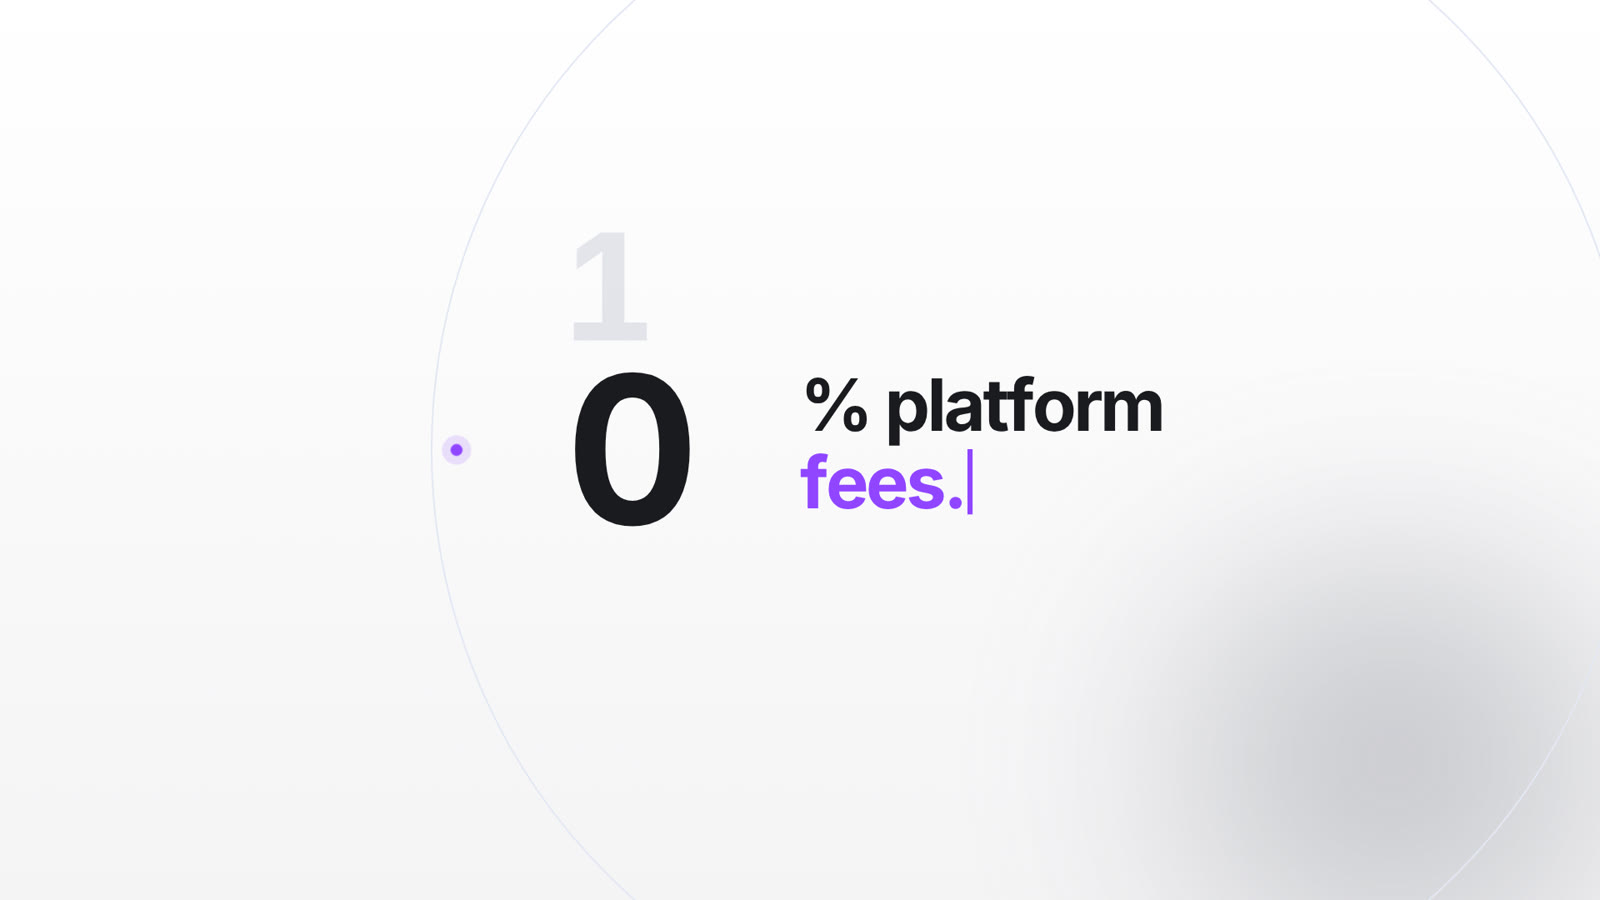
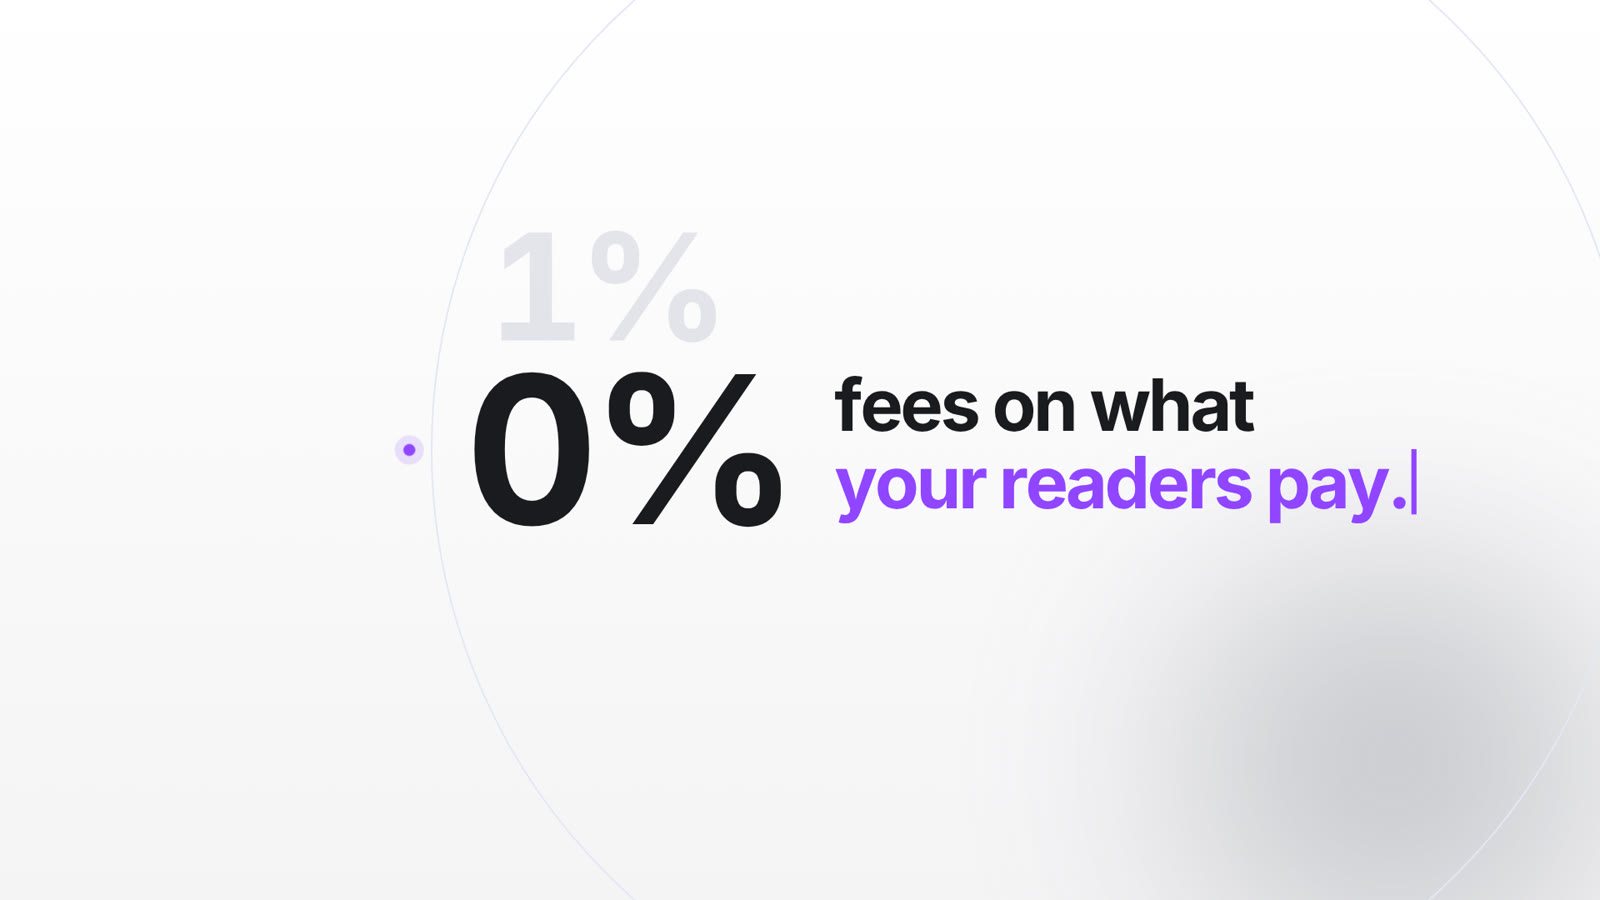
Shot 11: reel rolls 10% to 0% with 'fees on what your readers pay.' so the number explains itself
Claude-Session: https://claude.ai/code/session_01Bj9t4gh9dBD7VUE8NbaYEj

Changed region(s): [[0.25, 0.4044, 0.9062, 0.5911], [0.3125, 0.28, 0.4062, 0.3733], [0.3125, 0.28, 0.3438, 0.3111]]

diff --git a/ghost-film/review/index.html b/ghost-film/review/index.html
@@ -31,7 +31,7 @@ figcaption p { margin:0; color:var(--mute); font-size:14px; }
 </style>
 <div class="wrap">
   <header style="display:grid;gap:12px">
-    <span class="eyebrow">Ghost launch film · v5.1 · sharp corners · storyboard for approval</span>
+    <span class="eyebrow">Ghost launch film · v5.2 · sharp corners · clearer shot 11 · storyboard for approval</span>
     <h1>12 shots, 26.8 seconds, styled to ghost.org</h1>
     <p class="lede">Built on the saas-launch-video skill. It follows the skill’s arc and pacing (a cut every 1.6–3 s) and ghost.org’s branding: Inter Bold headlines with tight tracking, ink #15171A, the white-and-black ground you approved, Ghost purple for line 2, a black primary button, and the real Ghost editor and orb.</p>
   </header>
@@ -48,7 +48,7 @@ figcaption p { margin:0; color:var(--mute); font-size:14px; }
 <tr><td class="n">08</td><td class="tc">15.0s</td><td><code>morph</code></td><td><b>One place, / no duct tape.</b></td><td>The headline card morphs into a folder, then a Ghost panel (Website · Newsletter · Payments), and the hand clicks Publish & send. Fixes problem 3: tools.</td></tr>
 <tr><td class="n">09</td><td class="tc">17.8s</td><td><code>dashboard</code></td><td><b>Keep 100% of your revenue</b></td><td>A Ghost-black horizon rises with the dashboard: 2,480 paid members, platform fee 10 → 0%, open rate 64%, MRR 2.4×.</td></tr>
 <tr><td class="n">10</td><td class="tc">20.2s</td><td><code>social</code></td><td><b>Last week, / 20,425 new publications</b></td><td>The count-up runs, a marquee of publications featured on ghost.org scrolls past and “$100M+ earned on Ghost every year” appears.</td></tr>
-<tr><td class="n">11</td><td class="tc">22.1s</td><td><code>reel</code></td><td><b>0 · % platform / fees.</b></td><td>A slot reel rolls 10 → 0 and the label types on.</td></tr>
+<tr><td class="n">11</td><td class="tc">22.1s</td><td><code>reel</code></td><td><b>0% · fees on what / your readers pay.</b></td><td>A slot reel rolls 10% → 0% and “fees on what your readers pay.” types on beside it. Same animation and timing, now self-explanatory.</td></tr>
 <tr><td class="n">12</td><td class="tc">23.8s</td><td><code>cta</code></td><td><b>ghost · Turn your audience into a business.</b></td><td>The orb pops, the wordmark types, the black “Start publishing now →” button and “Try free for 14 days” rise, then ghost.org.</td></tr>
     </tbody></table></div>
   </section>
@@ -64,7 +64,7 @@ figcaption p { margin:0; color:var(--mute); font-size:14px; }
 <figure id="s08"><img src="img/s08.jpg" alt="Shot 08, morph" width="1600" height="900" loading="lazy"><figcaption><div class="cap"><b>08 · morph</b><span class="tc">15.0s</span></div><p>One place, / no duct tape.</p></figcaption></figure>
 <figure id="s09"><img src="img/s09.jpg" alt="Shot 09, dashboard" width="1600" height="900" loading="lazy"><figcaption><div class="cap"><b>09 · dashboard</b><span class="tc">17.8s</span></div><p>Keep 100% of your revenue</p></figcaption></figure>
 <figure id="s10"><img src="img/s10.jpg" alt="Shot 10, social" width="1600" height="900" loading="lazy"><figcaption><div class="cap"><b>10 · social</b><span class="tc">20.2s</span></div><p>Last week, / 20,425 new publications</p></figcaption></figure>
-<figure id="s11"><img src="img/s11.jpg" alt="Shot 11, reel" width="1600" height="900" loading="lazy"><figcaption><div class="cap"><b>11 · reel</b><span class="tc">22.1s</span></div><p>0 · % platform / fees.</p></figcaption></figure>
+<figure id="s11"><img src="img/s11.jpg" alt="Shot 11, reel" width="1600" height="900" loading="lazy"><figcaption><div class="cap"><b>11 · reel</b><span class="tc">22.1s</span></div><p>0% · fees on what / your readers pay.</p></figcaption></figure>
 <figure id="s12"><img src="img/s12.jpg" alt="Shot 12, cta" width="1600" height="900" loading="lazy"><figcaption><div class="cap"><b>12 · cta</b><span class="tc">23.8s</span></div><p>ghost · Turn your audience into a business.</p></figcaption></figure>
     </div>
   </section>

diff --git a/ghost-film/shots.js b/ghost-film/shots.js
@@ -379,10 +379,10 @@ shot('reel', { hero: 1.9, len: 2.5, tin: 'fade', tout: 'fade',
     s.count = list.length - 1;
     D(c, 'blob', { width: 900, height: 600, left: 1200, top: 600, opacity: .8 });
     D(c, 'ctr', { left: 1230, top: 540, width: 1400, height: 1400, borderRadius: '50%', border: '2px solid #E3E8F3' });
-    s.dot = D(c, 'ctr', { left: 560, top: 540, width: 14, height: 14, borderRadius: '50%', background: 'var(--acc)', boxShadow: '0 0 0 10px rgba(var(--accRGB),.15)' });
-    s.items = list.map(n => D(c, 'ctr head num', { left: 760, top: 540, fontSize: '240px', fontWeight: 700 }, (su.pad === false ? String(n) : String(n).padStart(2, '0'))));
-    s.t1 = typed(c, 'abs head', { left: 960, top: 445, fontSize: '84px' }, [{ t: su.l1 }], false);
-    s.t2 = typed(c, 'abs head acc', { left: 960, top: 535, fontSize: '84px' }, [{ t: su.l2 }]);
+    s.dot = D(c, 'ctr', { left: su.suffix ? 505 : 560, top: 540, width: 14, height: 14, borderRadius: '50%', background: 'var(--acc)', boxShadow: '0 0 0 10px rgba(var(--accRGB),.15)' });
+    s.items = list.map(n => D(c, 'ctr head num', { left: 760, top: 540, fontSize: '240px', fontWeight: 700 }, (su.pad === false ? String(n) : String(n).padStart(2, '0')) + (su.suffix || '')));
+    s.t1 = typed(c, 'abs head', { left: su.labelX || 960, top: 445, fontSize: '84px' }, [{ t: su.l1 }], false);
+    s.t2 = typed(c, 'abs head acc', { left: su.labelX || 960, top: 535, fontSize: '84px' }, [{ t: su.l2 }]);
   },
   update(t, s, c) {
     S(c, { s: L(1, 1.04, t / 2.5) });

diff --git a/ghost-film/brief.js b/ghost-film/brief.js
@@ -61,7 +61,7 @@ window.BRIEF = {
     logos: ['404 Media', 'Tangle', 'Platformer', 'The Lever', 'Buffer', 'Kickstarter', 'Y Combinator', 'Unsplash'],
     rating: { from: 10, to: 100, prefix: '$', suffix: 'M+', note: 'earned on Ghost every year', stars: false } },
   /* EASE: the reel lands on zero platform fees */
-  setup: { from: 10, to: 0, l1: '% platform', l2: 'fees.', pad: false },
+  setup: { from: 10, to: 0, suffix: '%', l1: 'fees on what', l2: 'your readers pay.', pad: false, labelX: 1000 },
   /* CTA: ghost.org's own hero line and button */
   cta: { tagline: ['Turn your audience ', 'into a business.'], primary: 'Start publishing now →', secondary: 'Try free for 14 days' },
 };
